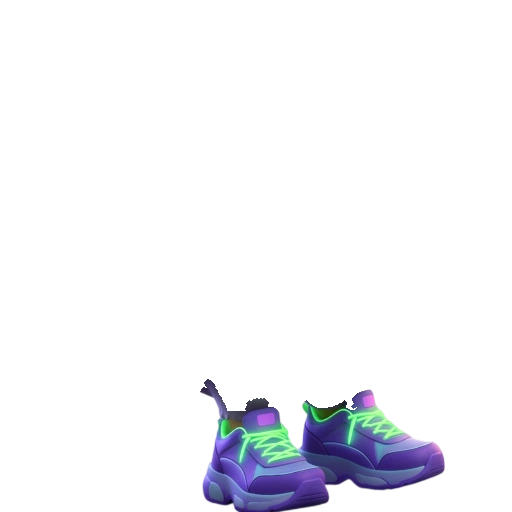
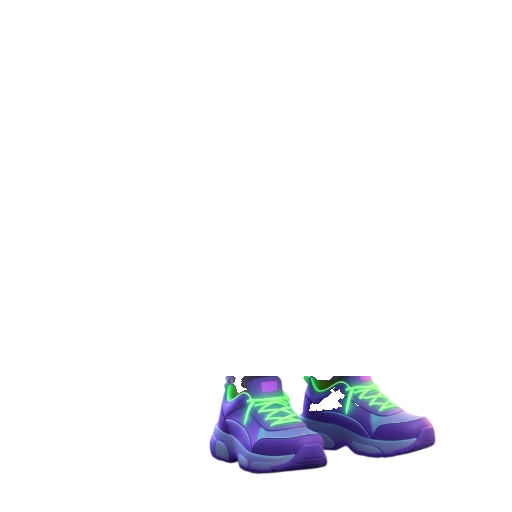
fix: compute upper ECC scale from top 70% and align shoe soles to y=476

Changed region(s): [[0.375, 0.7188, 0.875, 1.0]]

diff --git a/src/ui.tsx b/src/ui.tsx
@@ -128,7 +128,7 @@ export const PIGEON_SKIN_COLORS: Record<string, string> = {
   "iridescent-oil-slick": "#5e5a67", "skin-18": "#5e5a67", "18": "#5e5a67",
 };
 
-const ASSET_V = "?v=34";
+const ASSET_V = "?v=35";
 
 export const TAB_BACKGROUNDS: Record<string, string> = {
   birds: `/assets/backgrounds/home.webp${ASSET_V}`,

diff --git a/scripts/build-pigeon-assets.py b/scripts/build-pigeon-assets.py
@@ -154,6 +154,24 @@ def align_to_reference_ecc(
             [inv_s, 0.0, cx_src - inv_s * cx_ref],
             [0.0, inv_s, float(y_bot_src) - inv_s * float(y_bot_ref)],
         ], dtype=np.float32)
+    elif mask_mode == "upper":
+        # Для обуви: игнорируем нижние 30% (обувь разной высоты), оцениваем масштаб и центр по голове/туловищу
+        y_ref_end = int(ys_ref.min() + (ys_ref.max() - ys_ref.min()) * 0.70)
+        y_src_end = int(ys_src.min() + (ys_src.max() - ys_src.min()) * 0.70)
+        m_ref = (ref_alpha > 0.5) & (np.arange(TARGET_SIZE[1])[:, None] <= y_ref_end)
+        m_src = (src_alpha > 0.5) & (np.arange(src_alpha.shape[0])[:, None] <= y_src_end)
+        yr, xr = np.where(m_ref)
+        ys, xs = np.where(m_src)
+        h_ref = max(1, int(yr.max() - yr.min()))
+        h_src = max(1, int(ys.max() - ys.min()))
+        scale_init = h_ref / h_src
+        cx_ref, cy_ref = float(xr.mean()), float(yr.mean())
+        cx_src, cy_src = float(xs.mean()), float(ys.mean())
+        inv_s = 1.0 / scale_init
+        M = np.array([
+            [inv_s, 0.0, cx_src - inv_s * cx_ref],
+            [0.0, inv_s, cy_src - inv_s * cy_ref],
+        ], dtype=np.float32)
     else:
         h_ref = max(1, int(ys_ref.max() - ys_ref.min()))
         h_src = max(1, int(ys_src.max() - ys_src.min()))
@@ -662,7 +680,7 @@ def build_accessories_assets(
     out_slot_dir.mkdir(parents=True, exist_ok=True)
     ref_alpha = ref_rgba[:, :, 3].astype(np.float32) / 255.0
 
-    mode_map = {"shoes": "full", "clothes": "head_and_feet", "hats": "lower_body"}
+    mode_map = {"shoes": "upper", "clothes": "head_and_feet", "hats": "lower_body"}
     mask_mode = mode_map.get(slot, "upper")
 
     print(f"\n{step_label} Сегментация (rembg) и ECC-выравнивание ({mask_mode}) {slot} из {src_dir}...")
@@ -681,6 +699,14 @@ def build_accessories_assets(
         for seg_rgba in cells:
             aligned_rgba = align_to_reference_ecc(seg_rgba, ref_alpha, mask_mode=mask_mode)
             isolated_rgba = extract_accessory_diff(aligned_rgba, ref_rgba, slot)
+            if slot == "shoes":
+                # Выравниваем подошву обуви на уровень лап эталона (y_max = 476), чтобы обувь не свисала с платформы
+                sys_y = np.where(isolated_rgba[:, :, 3] > 20)[0]
+                if len(sys_y) > 0 and sys_y.max() > 478:
+                    shift_up = int(sys_y.max() - 476)
+                    shifted = np.zeros_like(isolated_rgba)
+                    shifted[:-shift_up, :] = isolated_rgba[shift_up:, :]
+                    isolated_rgba = shifted
             out_file = out_slot_dir / f"{slot}-{item_idx:02d}.webp"
             save_rgba_webp(isolated_rgba, out_file)
             px = int(np.sum(isolated_rgba[:, :, 3] > 20))
